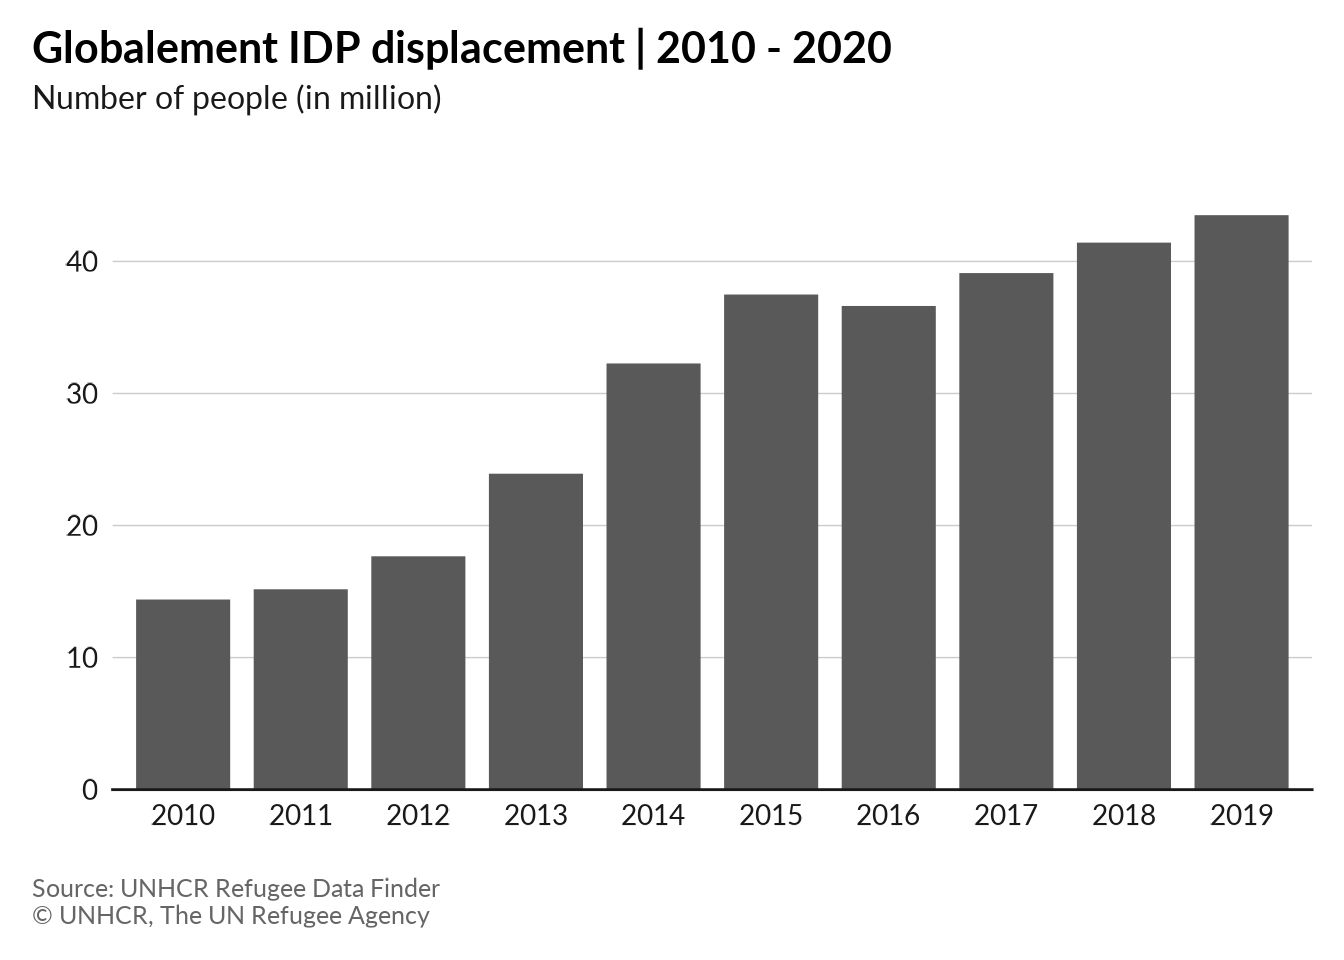
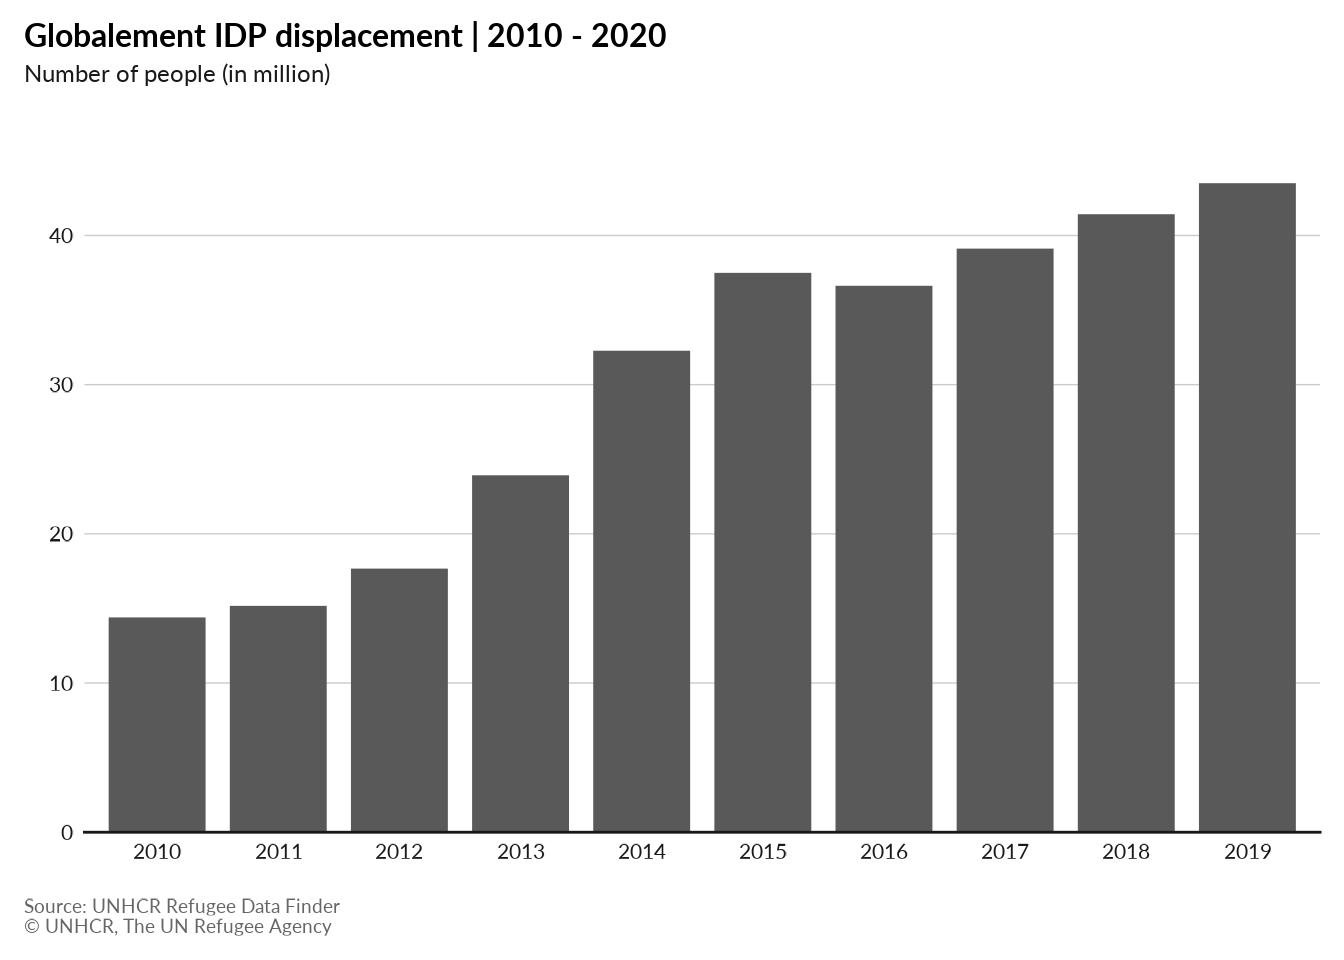
Add axis_text, axis_title, legend

diff --git a/README.md b/README.md
@@ -61,23 +61,7 @@ not possible to install **Lato** on your computer.
 
 ``` r
 library(tidyverse)
-#> ── Attaching packages ──────── tidyverse 1.3.1 ──
-#> ✔ ggplot2 3.3.5     ✔ purrr   0.3.4
-#> ✔ tibble  3.1.6     ✔ dplyr   1.0.7
-#> ✔ tidyr   1.1.4     ✔ stringr 1.4.0
-#> ✔ readr   2.1.1     ✔ forcats 0.5.1
-#> ── Conflicts ─────────── tidyverse_conflicts() ──
-#> ✖ dplyr::filter() masks stats::filter()
-#> ✖ dplyr::lag()    masks stats::lag()
 library(scales)
-#> 
-#> Attaching package: 'scales'
-#> The following object is masked from 'package:purrr':
-#> 
-#>     discard
-#> The following object is masked from 'package:readr':
-#> 
-#>     col_factor
 library(unhcrthemes)
 library(unhcrdatapackage) ## remotes::install_github("unhcr/unhcrdatapackage")
 ```
@@ -109,9 +93,7 @@ ggplot(pop_total) +
        y = "",
        caption = "Source: UNHCR Refugee Data Finder\n© UNHCR, The UN Refugee Agency") +
   scale_y_continuous(expand = expansion(c(0, 0.1))) +
-  theme_unhcr(font_size = 12,
-              font_family = "Lato",
-              grid = "Y")
+  theme_unhcr(grid = "Y")
 ```
 
 <img src="man/figures/README-plot-theme-1.png" width="672" />
@@ -140,9 +122,7 @@ ggplot(pop_total) +
        y = "",
        caption = "Source: UNHCR Refugee Data Finder\n© UNHCR, The UN Refugee Agency") +
   scale_y_continuous(expand = expansion(c(0, 0.1))) +
-  theme_unhcr(font_size = 12,
-              font_family = "Lato",
-              grid = "Y")
+  theme_unhcr(grid = "Y")
 ```
 
 <img src="man/figures/README-plot-theme-fill-1.png" width="672" />
@@ -178,9 +158,7 @@ ggplot(pop_total_sex) +
        x = "",
        y = "",
        caption = "Source: UNHCR Refugee Data Finder\n© UNHCR, The UN Refugee Agency") +
-  theme_unhcr(font_size = 12,
-              font_family = "Lato",
-              grid = "Y")
+  theme_unhcr(grid = "Y")
 ```
 
 <img src="man/figures/README-plot-theme-color-1.png" width="672" />
